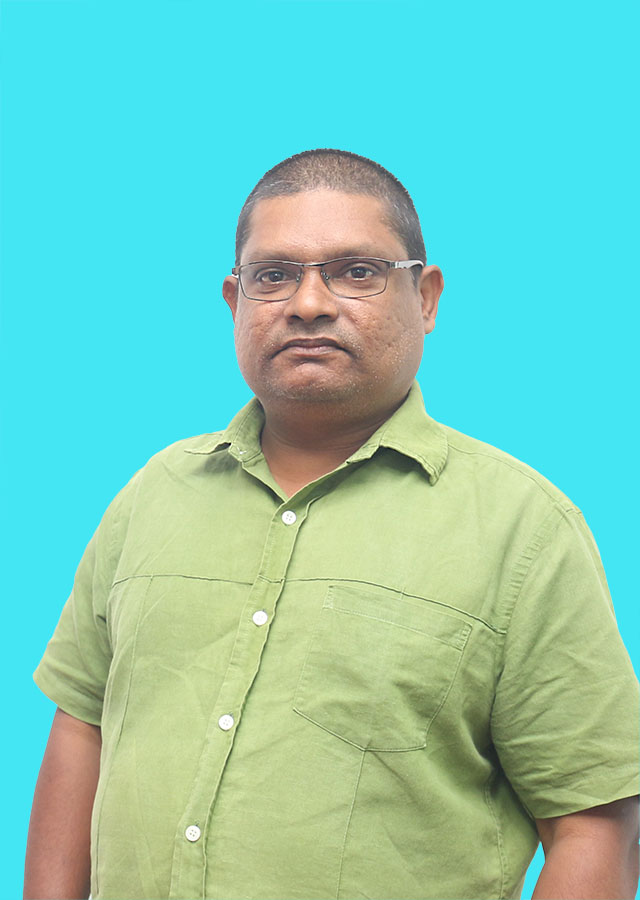
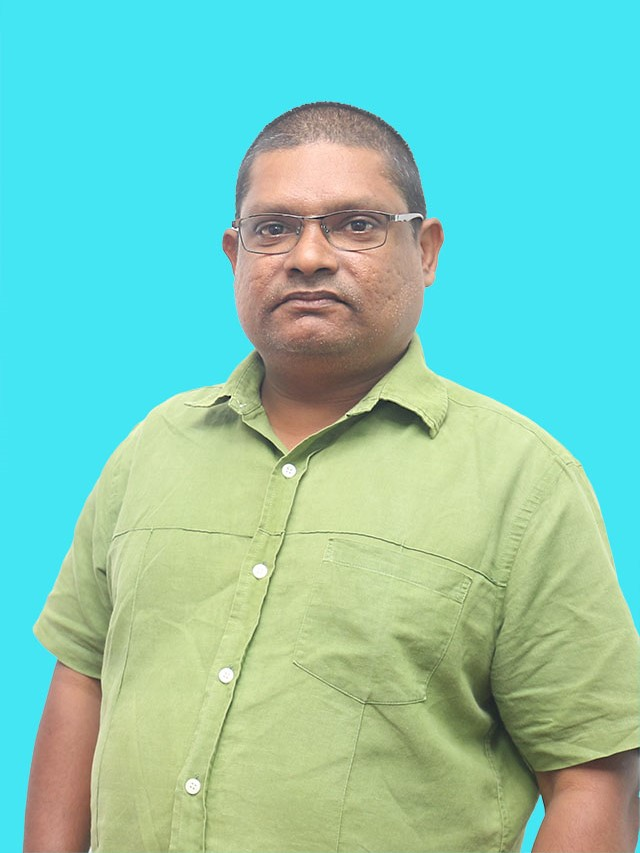
Update

diff --git a/index.html b/index.html
@@ -145,7 +145,7 @@
         <div class="section-wrapper">
           <div class="date-wrapper">
               <div class="date-box">
-                  <h3>May 21, 2025</h3>
+                  <h3>May 26, 2025</h3>
                   <div class="date-svg-wrapper">
                     <svg xmlns="http://www.w3.org/2000/svg" width="75" height="75" viewBox="0 0 644.4629 569.05811" xmlns:xlink="http://www.w3.org/1999/xlink" role="img" artist="Katerina Limpitsouni" source="https://undraw.co/"><path d="M837.76318,506.37231H295.423a16.51866,16.51866,0,0,1-16.5-16.5V184.07251H854.26318v305.7998A16.51867,16.51867,0,0,1,837.76318,506.37231Z" transform="translate(-277.76855 -165.47095)" fill="#e6e6e6"/><path d="M816.18017,474.78882H317.00561a8.50958,8.50958,0,0,1-8.5-8.5V224.155a8.50958,8.50958,0,0,1,8.5-8.5H816.18017a8.50951,8.50951,0,0,1,8.5,8.5V466.28882A8.50951,8.50951,0,0,1,816.18017,474.78882Z" transform="translate(-277.76855 -165.47095)" fill="#fff"/><path d="M855.41772,195.21851H277.76855V181.97095a16.51867,16.51867,0,0,1,16.5-16.5H838.91772a16.51867,16.51867,0,0,1,16.5,16.5Z" transform="translate(-277.76855 -165.47095)" fill="#004080"/><path d="M435.07983,382.07983H346.23437a8.50958,8.50958,0,0,1-8.5-8.5V315.1731a8.50958,8.50958,0,0,1,8.5-8.5h88.84546a8.5095,8.5095,0,0,1,8.5,8.5v58.40673A8.5095,8.5095,0,0,1,435.07983,382.07983Z" transform="translate(-277.76855 -165.47095)" fill="#e6e6e6"/><path d="M790.72387,316.12866H510.009a4.72778,4.72778,0,1,1,0-9.45556H790.72387a4.72778,4.72778,0,0,1,0,9.45556Z" transform="translate(-277.76855 -165.47095)" fill="#e6e6e6"/><path d="M790.72387,349.94946H510.009a4.72754,4.72754,0,1,1,0-9.45508H790.72387a4.72754,4.72754,0,0,1,0,9.45508Z" transform="translate(-277.76855 -165.47095)" fill="#e6e6e6"/><path d="M790.72387,383.77075H510.009a4.72778,4.72778,0,1,1,0-9.45556H790.72387a4.72778,4.72778,0,0,1,0,9.45556Z" transform="translate(-277.76855 -165.47095)" fill="#e6e6e6"/><polygon points="419.548 556.311 407.288 556.311 401.456 509.023 419.55 509.023 419.548 556.311" fill="#a0616a"/><path d="M398.53106,552.80763h23.64387a0,0,0,0,1,0,0v14.88687a0,0,0,0,1,0,0H383.64421a0,0,0,0,1,0,0v0A14.88686,14.88686,0,0,1,398.53106,552.80763Z" fill="#2f2e41"/><polygon points="470.548 556.311 458.288 556.311 452.456 509.023 470.55 509.023 470.548 556.311" fill="#a0616a"/><path d="M449.53106,552.80763h23.64387a0,0,0,0,1,0,0v14.88687a0,0,0,0,1,0,0H434.64421a0,0,0,0,1,0,0v0A14.88686,14.88686,0,0,1,449.53106,552.80763Z" fill="#2f2e41"/><path d="M746.75526,710.91364H734.27553a4.5264,4.5264,0,0,1-4.48438-4.12793L719.21523,579.38727a1.49993,1.49993,0,0,0-2.98414-.05274l-15.1892,127.61133a4.50246,4.50246,0,0,1-4.46851,3.96778h-15.324a4.50533,4.50533,0,0,1-4.49781-4.47559c-.03369-8.01563-.08838-16.08984-.14306-24.165-.48633-71.92187-.98926-146.292,14.02856-175.42773l.137-.26563,54.19239-.92676.136.29786c16.39624,35.83007,11.41968,115.875,6.60694,193.2832l-.46314,7.459A4.50686,4.50686,0,0,1,746.75526,710.91364Z" transform="translate(-277.76855 -165.47095)" fill="#2f2e41"/><circle cx="443.31365" cy="219.86366" r="24.56103" fill="#a0616a"/><path d="M687.59706,511.0943l.67676-28.16016-4.87232-21.97168a35.41574,35.41574,0,0,1,7.87525-31.11816,34.87749,34.87749,0,0,1,29.21948-12.11523h.00025q.53064.041,1.064.08886a35.02345,35.02345,0,0,1,24.13135,12.90723,35.43053,35.43053,0,0,1,7.76416,26.57422l-5.89429,51.5166Z" transform="translate(-277.76855 -165.47095)" fill="#004080"/><path d="M666.73325,561.56408a10.05578,10.05578,0,0,0,.52738-15.41031l13.82828-32.95084-18.25062,3.42765-10.33354,30.76518a10.11027,10.11027,0,0,0,14.2285,14.16832Z" transform="translate(-277.76855 -165.47095)" fill="#a0616a"/><path d="M771.0768,565.51366a10.05582,10.05582,0,0,1,.35026-15.41536L759.496,516.41406l18.026,4.4605,8.56637,31.30329a10.11027,10.11027,0,0,1-15.01158,13.33581Z" transform="translate(-277.76855 -165.47095)" fill="#a0616a"/><path d="M668.9286,545.41754a4.50175,4.50175,0,0,1-1.83911-.39258l-10.52075-4.71289a4.49406,4.49406,0,0,1-2.44409-5.48535l17.6477-54.81933,6.82007-41.29981a11.09066,11.09066,0,1,1,21.74121,4.335l-10.36547,44.292L673.23354,542.23a4.49738,4.49738,0,0,1-4.30494,3.1875Z" transform="translate(-277.76855 -165.47095)" fill="#004080"/><path d="M769.29091,545.41754A4.49738,4.49738,0,0,1,764.986,542.23L748.2599,487.36578l-10.374-44.32324a11.09067,11.09067,0,1,1,21.74121-4.335l6.83765,41.37207,17.63037,54.74707a4.49444,4.49444,0,0,1-2.44434,5.48535L771.13,545.025A4.50175,4.50175,0,0,1,769.29091,545.41754Z" transform="translate(-277.76855 -165.47095)" fill="#004080"/><path d="M721.58714,358.18541c-6.82592-2.95688-15.743.7224-18.49775,7.63236-1.71446,4.30049-1.19131,9.151-.24607,13.68316s2.29287,9.055,2.148,13.6824-2.138,9.5386-6.24293,11.67936c-2.45278,1.27913-5.3218,1.42137-7.98081,2.18427s-5.40346,2.54653-5.78641,5.28618c-.57932,4.14451,4.448,7.30118,4.41447,11.48585-.03556,4.43388-5.57661,7.06694-6.2948,11.44242a7.59532,7.59532,0,0,0,2.929,6.75,19.90727,19.90727,0,0,0,6.88422,3.33272,118.80963,118.80963,0,0,0,59.2554,3.37627c3.91827-.78155,7.951-1.83834,10.99547-4.42573s4.78579-7.11653,3.03581-10.70836c-2.62352-5.38475-10.95329-5.69164-13.85626-10.931-1.74133-3.14282-.93971-7.0012-.57307-10.57543.94687-9.23058,3.13144-20.01391.83832-29.00512-2.07178-8.12333-6.5704-18.62032-13-24-4.61353-3.86016-13.42156-2.10141-19.31795-.91059Z" transform="translate(-277.76855 -165.47095)" fill="#2f2e41"/><path d="M921.23145,734.52905h-350a1,1,0,0,1,0-2h350a1,1,0,0,1,0,2Z" transform="translate(-277.76855 -165.47095)" fill="#ccc"/><path d="M884.37762,711.75751c-14.41968,19.311-44.352,21.34351-44.352,21.34351s-6.55353-29.27679,7.86615-48.58777,44.352-21.34357,44.352-21.34357S898.79724,692.44648,884.37762,711.75751Z" transform="translate(-277.76855 -165.47095)" fill="#e6e6e6"/><path d="M810.9209,719.017c9.51507,12.74273,29.2666,14.084,29.2666,14.084s4.32446-19.31891-5.19062-32.06165-29.2666-14.084-29.2666-14.084S801.40582,706.2743,810.9209,719.017Z" transform="translate(-277.76855 -165.47095)" fill="#e6e6e6"/></svg>
                   </div>
@@ -153,7 +153,7 @@
               </div>
 
               <div class="date-box">
-                  <h3>June 30, 2025</h3>
+                  <h3>July 05, 2025</h3>
                   <div class="date-svg-wrapper">
                     <svg xmlns="http://www.w3.org/2000/svg" width="75" height="75" viewBox="0 0 675.67004 631.94692" xmlns:xlink="http://www.w3.org/1999/xlink" role="img" artist="Katerina Limpitsouni" source="https://undraw.co/"><path d="M886.75657,617.4844l30.31095,4.737a98.98541,98.98541,0,0,0,20.60431-42.93875c-22.16391,18.14266-55.86923,8.5016-82.74464,18.40656A59.5399,59.5399,0,0,0,819.307,635.03277L804.49369,650.9701A99.77016,99.77016,0,0,0,887.905,646.378a96.3717,96.3717,0,0,0,19.64-14.09929C896.93923,625.60042,886.75657,617.4844,886.75657,617.4844Z" transform="translate(-262.16498 -134.02654)" fill="#f2f2f2"/><path d="M875.99631,569.00709l29.24218-9.2783a98.98538,98.98538,0,0,0-.70813-47.62114c-11.74636,26.12313-46.21379,32.5259-65.851,53.37718a59.53993,59.53993,0,0,0-15.227,49.31l-6.15081,20.871a99.77014,99.77014,0,0,0,72.60872-41.31,96.37253,96.37253,0,0,0,11.29063-21.37854C888.72981,571.73,875.99631,569.00709,875.99631,569.00709Z" transform="translate(-262.16498 -134.02654)" fill="#f2f2f2"/><path d="M937.835,660.62474a1.18647,1.18647,0,0,1-1.19006,1.19H263.355a1.19,1.19,0,0,1,0-2.38h673.29A1.18651,1.18651,0,0,1,937.835,660.62474Z" transform="translate(-262.16498 -134.02654)" fill="#ccc"/><circle cx="278.99773" cy="260.8659" r="215" fill="#e6e6e6"/><path d="M726.16271,394.89244a184.74377,184.74377,0,0,1-74.67,148.51c-1.55,1.16-3.13,2.29-4.72,3.39a185.03127,185.03127,0,0,1-211.22,0c-1.59-1.1-3.17-2.23-4.72-3.39a185.01966,185.01966,0,0,1,0-297.02c1.55-1.16,3.13-2.29,4.72-3.39a185.0315,185.0315,0,0,1,211.22,0c1.59,1.1,3.17,2.23,4.72,3.39A184.74369,184.74369,0,0,1,726.16271,394.89244Z" transform="translate(-262.16498 -134.02654)" fill="#fff"/><circle cx="278.99773" cy="260.8659" r="169" fill="#004080"/><path d="M541.60362,226.36486c-2.562,0-5.10815.067-7.64221.1798a168.99467,168.99467,0,0,1-7.15649,337.168c4.87781.42328,9.81116.65223,14.7987.65223a169,169,0,0,0,0-338Z" transform="translate(-262.16498 -134.02654)" opacity="0.2"/><path d="M541.66271,213.89244a5.50968,5.50968,0,0,0-5.5,5.5v24a5.5,5.5,0,0,0,11,0v-24A5.50968,5.50968,0,0,0,541.66271,213.89244Z" transform="translate(-262.16498 -134.02654)" fill="#fff"/><path d="M651.49272,246.38243c-1.55-1.16-3.13-2.29-4.72-3.39a5.49662,5.49662,0,0,0-4.9,2.39l-13.51,19.83a5.49872,5.49872,0,0,0,9.09,6.19l13.51-19.83A5.4644,5.4644,0,0,0,651.49272,246.38243Z" transform="translate(-262.16498 -134.02654)" fill="#fff"/><path d="M712.87273,336.80242a5.4929,5.4929,0,0,0-7.16-3.02l-22.24,9.03a5.49945,5.49945,0,0,0,4.14,10.19l22.24-9.03A5.51241,5.51241,0,0,0,712.87273,336.80242Z" transform="translate(-262.16498 -134.02654)" fill="#fff"/><path d="M453.96269,265.21245l-13.51-19.83a5.49661,5.49661,0,0,0-4.9-2.39c-1.59,1.1-3.17,2.23-4.72,3.39a5.46442,5.46442,0,0,0,.53,5.19l13.51,19.83a5.49872,5.49872,0,0,0,9.09-6.19Z" transform="translate(-262.16498 -134.02654)" fill="#fff"/><path d="M398.85271,342.81243l-22.24-9.03a5.49942,5.49942,0,0,0-4.14,10.18994l22.24,9.03a5.49945,5.49945,0,0,0,4.14-10.19Z" transform="translate(-262.16498 -134.02654)" fill="#fff"/><path d="M541.66271,540.89244a5.50968,5.50968,0,0,0-5.5,5.5v24a5.5,5.5,0,0,0,11,0v-24A5.50968,5.50968,0,0,0,541.66271,540.89244Z" transform="translate(-262.16498 -134.02654)" fill="#fff"/><path d="M650.96269,538.21245l-13.51-19.83a5.49872,5.49872,0,1,0-9.09,6.19l13.51,19.83a5.49657,5.49657,0,0,0,4.9,2.39c1.59-1.1,3.17-2.23,4.72-3.39A5.46436,5.46436,0,0,0,650.96269,538.21245Z" transform="translate(-262.16498 -134.02654)" fill="#fff"/><path d="M709.85271,445.81243l-22.24-9.03a5.49942,5.49942,0,0,0-4.14,10.18994l22.24,9.03a5.49945,5.49945,0,0,0,4.14-10.19Z" transform="translate(-262.16498 -134.02654)" fill="#fff"/><path d="M452.51268,516.93242a5.5,5.5,0,0,0-7.63995,1.45l-13.51,19.83a5.46439,5.46439,0,0,0-.53,5.19c1.55,1.16,3.13,2.29,4.72,3.39a5.49656,5.49656,0,0,0,4.9-2.39l13.51-19.83A5.49838,5.49838,0,0,0,452.51268,516.93242Z" transform="translate(-262.16498 -134.02654)" fill="#fff"/><path d="M401.87273,439.80242a5.4929,5.4929,0,0,0-7.16-3.02l-22.24,9.03a5.49945,5.49945,0,0,0,4.14,10.19l22.24-9.03A5.51241,5.51241,0,0,0,401.87273,439.80242Z" transform="translate(-262.16498 -134.02654)" fill="#fff"/><path d="M548.79894,392.16338a11.5131,11.5131,0,0,1-9.40873,13.26558l-97.59815,16.60128a11.5,11.5,0,0,1-3.85686-22.67432l97.59815-16.60127A11.5131,11.5131,0,0,1,548.79894,392.16338Z" transform="translate(-262.16498 -134.02654)" fill="#3f3d56"/><path d="M651.51837,500.29429a7.5082,7.5082,0,0,1-10.60652.04177l-105.063-104.23895a7.5,7.5,0,0,1,10.56475-10.64828l105.063,104.23895A7.50819,7.50819,0,0,1,651.51837,500.29429Z" transform="translate(-262.16498 -134.02654)" fill="#3f3d56"/><circle cx="278.99773" cy="260.8659" r="13" fill="#ccc"/><path d="M451.61885,169.47127c-19.95483,31.3725-50.40146,52.19272-87.94977,65.87042a7.05892,7.05892,0,0,1-9.88158-1.41838l0,0c-20.3959-27.23248-15.79051-66.15312,11.1278-86.96189a62.06846,62.06846,0,0,1,87.55785,11.87509l.56413.75322A7.05892,7.05892,0,0,1,451.61885,169.47127Z" transform="translate(-262.16498 -134.02654)" fill="#e6e6e6"/><path d="M629.85228,158.83648a62.06846,62.06846,0,0,1,87.55785-11.87509c26.91832,20.80877,31.52371,59.72941,11.1278,86.96189l0,0a7.05889,7.05889,0,0,1-9.88155,1.41838c-34.8573-13.34536-63.4422-36.43945-87.94983-65.87042a7.059,7.059,0,0,1-1.41838-9.88157Z" transform="translate(-262.16498 -134.02654)" fill="#e6e6e6"/><path d="M621.10592,581.16067a5.50968,5.50968,0,0,0-2.11376,7.48546l31.74188,56.7226a5.5,5.5,0,0,0,9.59921-5.3717l-31.74188-56.7226A5.50968,5.50968,0,0,0,621.10592,581.16067Z" transform="translate(-262.16498 -134.02654)" fill="#e6e6e6"/><path d="M453.734,583.27443,421.99216,639.997a5.5,5.5,0,0,0,9.59921,5.3717l31.74188-56.7226a5.5,5.5,0,1,0-9.59921-5.3717Z" transform="translate(-262.16498 -134.02654)" fill="#e6e6e6"/><circle cx="394.99773" cy="508.8659" r="17" fill="#e6e6e6"/><circle cx="406.99773" cy="73.8659" r="17" fill="#e6e6e6"/><circle cx="277.99773" cy="33.8659" r="17" fill="#e6e6e6"/><circle cx="154.99773" cy="71.8659" r="17" fill="#e6e6e6"/><circle cx="165.99773" cy="508.8659" r="17" fill="#e6e6e6"/><path d="M643.82785,490.73326a8.51615,8.51615,0,0,0,12.95041,1.67682l26.67551,14.29343-1.43061-15.66135L656.911,479.86993a8.56232,8.56232,0,0,0-13.08312,10.86333Z" transform="translate(-262.16498 -134.02654)" fill="#ffb7b7"/><path d="M663.26422,496.199l10.45348-14.42967,50.35989,23.80654,62.667-11.75832a21.47122,21.47122,0,0,1,25.43021,21.06258h0a21.49411,21.49411,0,0,1-21.43119,21.51043l-71.81625.13324Z" transform="translate(-262.16498 -134.02654)" fill="#3f3d56"/><polygon points="384.999 611.399 374.422 606.341 388.951 562.133 404.56 569.599 384.999 611.399" fill="#ffb7b7"/><path d="M718.07,738.29872c-.7691.48175-1.5382.95554-2.31507,1.42951-1.546.94777-3.10749,1.88-4.669,2.79663-.78465.45843-1.57707.91685-2.36172,1.3675v.02314l-.04661.00777-.01551.00778-1.19641.29531-1.71686-4.537-.79243-2.08974-1.1187-2.95994-2.051-5.41478-10.79851-28.51121,16.78822-4.1408.62926,2.5715h.00778l.31072,1.274,5.86543,23.788,1.19637,4.86323.03883.14756.72249,2.9055.62153,2.51706.69139,2.81238Z" transform="translate(-262.16498 -134.02654)" fill="#ffb7b7"/><path d="M818.21837,638.17372c-1.06431,1.70913-2.152,3.41049-3.24732,5.09629q-3.05317,4.70782-6.26938,9.27587c0,.00777-.00777.00777-.01555.01555a21.93387,21.93387,0,0,1-4.11742,3.0065c-.06216.04661-.13205.07767-.19422.1165a15.17964,15.17964,0,0,1-3.46487,1.39063c-.435.10873-.87787.2175-1.31292.32628-1.56925.37288-3.123.69142-4.669.97109-2.75012.48943-5.46917.839-8.17268,1.05653-.21754.02333-.435.03884-.65259.05439-11.117.81571-21.93889-.49721-33.23461-2.64912-5.578-1.05658-11.27244-2.32289-17.16893-3.6358-1.92663-.43505-3.861-.86232-5.81877-1.28959-.14761-.03106-.303-.06994-.45838-.101-2.79673-.61371-5.64006-1.2197-8.55334-1.81791-3.66686-.75354-7.45023-1.4838-11.38121-2.17523l.27967,5.53911a41.68909,41.68909,0,0,0,2.62583,12.4533c1.67807,4.90985,3.0065,8.79421.202,16.88144l-1.35176,3.91543a13.37221,13.37221,0,0,1-1.37508,11.83181l-.27188.41172,11.27243,28.519.73027,1.849h-5.77221l-7.10059.00778H696.69209l-17.36314-34.835-.83126-1.66252v-.08544l1.79457-66.94316c.02333-.59043.06994-1.18864.14761-1.77907a20.35271,20.35271,0,0,1,7.74545-13.704,19.60027,19.60027,0,0,1,14.59743-3.99314l5.9431.7691,12.14253,1.5693,8.55334,1.11092.17094.02328,25.22505,3.26288,1.81013-7.3803.33405-.12428,10.61989-3.89214,36.73054-13.46323.09322-.03105,2.41607-.88565.28744.46611c.08549.13987.17093.27971.2486.41954a71.99912,71.99912,0,0,1,5.80327,13.471,211.47728,211.47728,0,0,1,6.09844,23.28292q.10489.51275.18644.93226l.02333.08544c.02328.13206.03883.2175.04661.24083C820.36255,629.60479,819.77212,633.9087,818.21837,638.17372Z" transform="translate(-262.16498 -134.02654)" fill="#2f2e41"/><path d="M819.76865,613.50321c-.11655-.49721-.26415-1.00215-.41949-1.49159a106.28979,106.28979,0,0,0-4.30386-10.89178c-1.83341-4.03975-4.032-8.36694-6.65-13.05146q-1.89946-3.40275-4.08637-7.0773-1.09539-1.84121-2.27623-3.75231a1.972,1.972,0,0,0-.101-.17089l-.22527-.37289-36.34216,4.86324-13.53311,1.81013-.80794,6.74325-.19421,1.6703c-.00778,0-.00778,0,0,.00777l-.54383,4.55247v.00778l-.72248,6.013-.06216-.00778-20.08216-2.60251-20.69591-2.68022-11.11706-1.43719a19.58836,19.58836,0,0,0-14.59743,3.99314,20.3629,20.3629,0,0,0-7.7454,13.704c-.06994.54382-.11655,1.10315-.13988,1.65475l-10.48779,24.85216a160.34347,160.34347,0,0,0-11.8551,46.64346l-7.69106,24.58806,1.09537.101,16.29879,1.51492,4.30386.404,9.47786-13.83611c1.07987-1.57707,2.10534-3.20071,3.06088-4.86323a73.86106,73.86106,0,0,0,4.18736-8.42133l20.5017-48.78763q2.37727.408,4.70785.77687,10.77918,1.748,20.69591,2.85112c21.49607,2.40055,40.11,2.587,56.68069.55159q6.98021-.85065,13.49429-2.2374,2.38894-.50113,4.71562-1.07986c.36511-.08545.72249-.17089,1.07987-.26416a19.82527,19.82527,0,0,0,13.86717-12.95824A20.22821,20.22821,0,0,0,819.76865,613.50321Z" transform="translate(-262.16498 -134.02654)" fill="#2f2e41"/><path d="M650.54238,738.20692l-11.44332-5.48473-1.79458-.86231-2.86666,7.03847-20.01227,4.4049a4.74845,4.74845,0,0,0-.77687,9.035l19.55389,7.97851,6.20721-5.58572-1.52269,7.49684,7.36474,3.0065,8.07168-25.69121Z" transform="translate(-262.16498 -134.02654)" fill="#2f2e41"/><polygon points="458.703 593.34 459.434 595.189 458.703 595.189 458.703 593.34" fill="#2f2e41"/><path d="M716.883,729.6106,704.89244,733.765l-1.88192.65,2.91542,7.01841-11.12085,17.21106a4.74844,4.74844,0,0,0,5.80521,6.9667l19.50836-8.08917.48047-8.3366,4.193,6.39847,7.34864-3.04564-12.34131-23.93495Z" transform="translate(-262.16498 -134.02654)" fill="#2f2e41"/><path d="M816.77843,624.75865a4.40445,4.40445,0,0,1-2.043-.50683l-63.27441-33.0625-.731-2.99317-1.37793-9.47168.019-.08886,6.01758-27.74317c-.11035-.23828-.34082-.6289-.60107-1.07031-2.68653-4.55176-10.86231-18.40527,4.74121-37.48047l27.3955-31.93945,23.5127-1.01172.26758.33789A61.242,61.242,0,0,1,821.11485,536.617l-2.44824,44.2168,2.626,8.92969a24.6393,24.6393,0,0,1-.72168,15.94433l.602,14.459a4.41745,4.41745,0,0,1-4.39453,4.59179Z" transform="translate(-262.16498 -134.02654)" fill="#3f3d56"/><path d="M761.89233,661.22445a8.5162,8.5162,0,0,0,2.12627-12.88426L779.23125,622.178l-15.70163.885-12.039,24.70838a8.56232,8.56232,0,0,0,10.40167,13.45308Z" transform="translate(-262.16498 -134.02654)" fill="#ffb7b7"/><path d="M768.03088,641.99l-14.05733-10.94906,25.54384-49.50134L769.946,518.50143a21.47121,21.47121,0,0,1,21.9344-24.68218h0a21.49411,21.49411,0,0,1,20.752,22.16643l-2.36488,71.77743Z" transform="translate(-262.16498 -134.02654)" fill="#3f3d56"/><path id="f4e08e8b-ef08-4d70-8ad3-b81af8a71ff9-608" data-name="a1ca5f83-7fa1-45b1-9d3b-bf096f25c0e5" d="M771.84232,467.13077V443.864a31.177,31.177,0,1,1,62.35408-.04005v.04005c5.49493,11.45055,2.05727,16.8945,0,23.2668a4.19307,4.19307,0,0,1-4.18608,4.18608H776.03048A4.1931,4.1931,0,0,1,771.84232,467.13077Z" transform="translate(-262.16498 -134.02654)" fill="#2f2e41"/><circle cx="530.63215" cy="312.44125" r="23.33714" fill="#ffb7b7"/><path d="M817.22046,452.58578c-.21152-.03343-.423-.078-.63455-.11143-3.64026-.64562-7.28046-1.2801-10.90958-1.937l-.334-8.2266-4.39718,7.3694c-10.03015,3.32853-19.41462,1.44724-28.24248-2.70506a79.73731,79.73731,0,0,1-8.46054-4.66434,30.92749,30.92749,0,0,1,15.19553-21.886c.334-.18929.65677-.35617.99079-.52331a.0109.0109,0,0,0,.01107-.01115c.56776-.26716,1.14666-.52318,1.72556-.75691a25.70666,25.70666,0,0,1,26.98453,5.23209C816.27418,431.16737,819.48027,442.39976,817.22046,452.58578Z" transform="translate(-262.16498 -134.02654)" fill="#2f2e41"/></svg>
                   </div>
@@ -308,11 +308,6 @@
                 <p style="margin-bottom: 20px;">Please ensure your abstract follows the provided format.</p>
                 <a class="guidlinebutton" href="doc/Abstract Template.rar">Download Abstract Template<a>
               </div>
-
-
-
-
-
               <!-- <h4>Fees</h4> -->
 
               
@@ -330,7 +325,7 @@
             <div class="comittee-wrapper">
                 <div class="comittee-box">
                     <div class="">
-                        <img width="100%" src="Images/image background_0.jpg" alt="">
+                        <img src="Images/chanuka.jpg" alt="">
                     </div>
 
                     <p class="name">Mr. Chanuka Illangarathne</p>
@@ -340,7 +335,7 @@
 
                 <div class="comittee-box">
                     <div class="">
-                        <img width="100%" src="Images/Himashee Naranpanawa.jpg" alt="">
+                        <img src="Images/himashee.jpg" alt="">
                     </div>
 
                     <p class="name">Ms. Himashee Naranpanawa</p>
@@ -348,10 +343,30 @@
                     <p>Co-Chair</p>
                 </div>
 
+                <div class="comittee-box">
+                    <div class="">
+                        <img src="Images/kaveesha.jpg" alt="">
+                    </div>
+
+                    <p class="name">Mr. Kaveesha Premasiri</p>
+                    <br>
+                    <p>YSA Co-Chair</p>
+                </div>
 
                 <div class="comittee-box">
                     <div class="">
-                        <img width="100%" src="Images/image background_0.jpg" alt="">
+                        <img src="Images/shashikala.jpg" alt="">
+                    </div>
+
+                    <p class="name">Ms.Shashikala Sewwandi</p>
+                    <br>
+                    <p>YSA Co-Chair</p>
+                </div>
+
+
+                <div class="comittee-box">
+                    <div class="">
+                        <img src="Images/sasanka.jpg" alt="">
                     </div>
 
                     <p class="name">Mr. Sasanka Seneviratna</p>
@@ -362,7 +377,7 @@
 
                 <div class="comittee-box">
                     <div class="">
-                        <img width="100%" src="Images/IMG_6805 (1) (1).jpg" alt="">
+                        <img src="Images/aravindha.jpg" alt="">
                     </div>
 
                     <p class="name">Mr. Aravinda Bandara</p>
@@ -373,7 +388,7 @@
 
                 <div class="comittee-box">
                     <div class="">
-                        <img width="100%" src="Images/image background_0.jpg" alt="">
+                        <img src="Images/sandun.jpg" alt="">
                     </div>
 
                     <p class="name">Mr. Sandun Bowaththa</p>
@@ -383,7 +398,6 @@
             </div>
 
             
-
             <h3 style="margin-top:40px; margin-bottom: 24px;">Advisory Board</h3>
             <div class="comittee-wrapper">
                 <div class="comittee-box">

diff --git a/script.js b/script.js
@@ -1,6 +1,6 @@
 const milestones = [
-    { title: "First Call for Abstracts", date: new Date("May 21, 2025 00:00:00") },
-    { title: "Deadline for Abstract Submission", date: new Date("June 30, 2025 23:59:59") },
+    { title: "First Call for Abstracts", date: new Date("May 26, 2025 00:00:00") },
+    { title: "Deadline for Abstract Submission", date: new Date("July 05, 2025 23:59:59") },
     { title: "Camera-Ready Abstract Deadline", date: new Date("August 25, 2025 23:59:59") },
     { title: "Conference Date", date: new Date("November 27, 2025 00:00:00") }
   ];

diff --git a/style.css b/style.css
@@ -653,3 +653,9 @@ footer {
   margin-top: 8px;
   font-weight: 600;
 }
+
+.comittee-box img{
+  width: 100%!important;
+  object-fit: contain;
+  display: block;
+}
